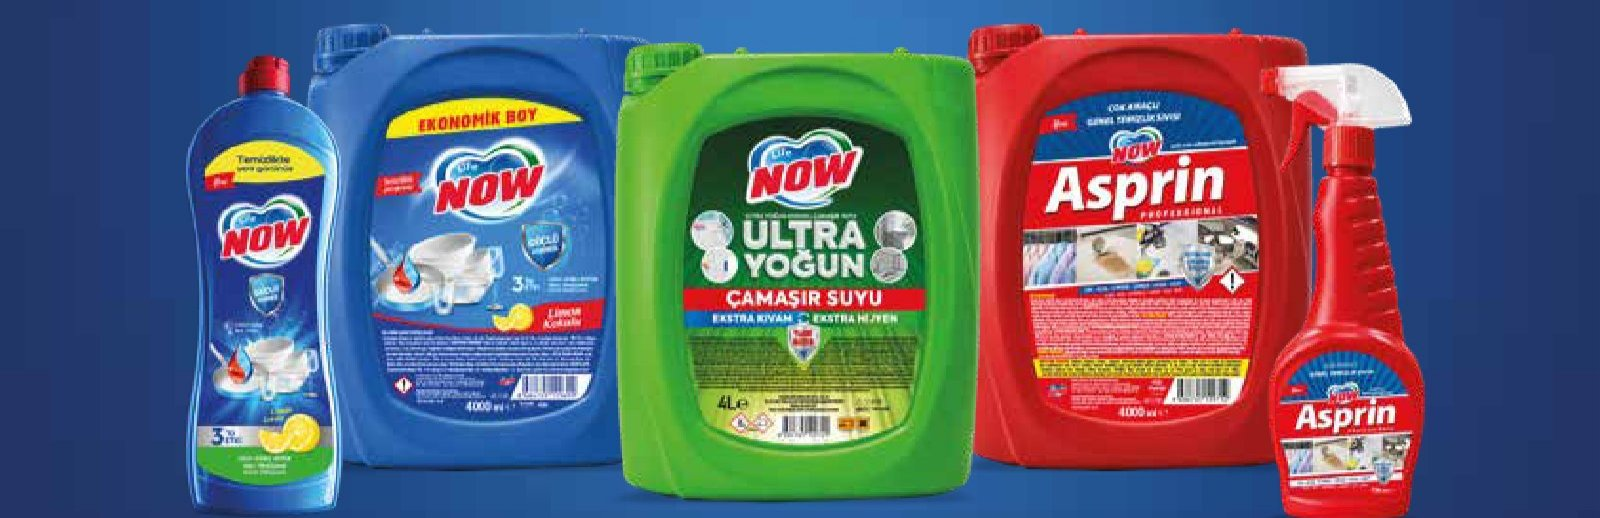
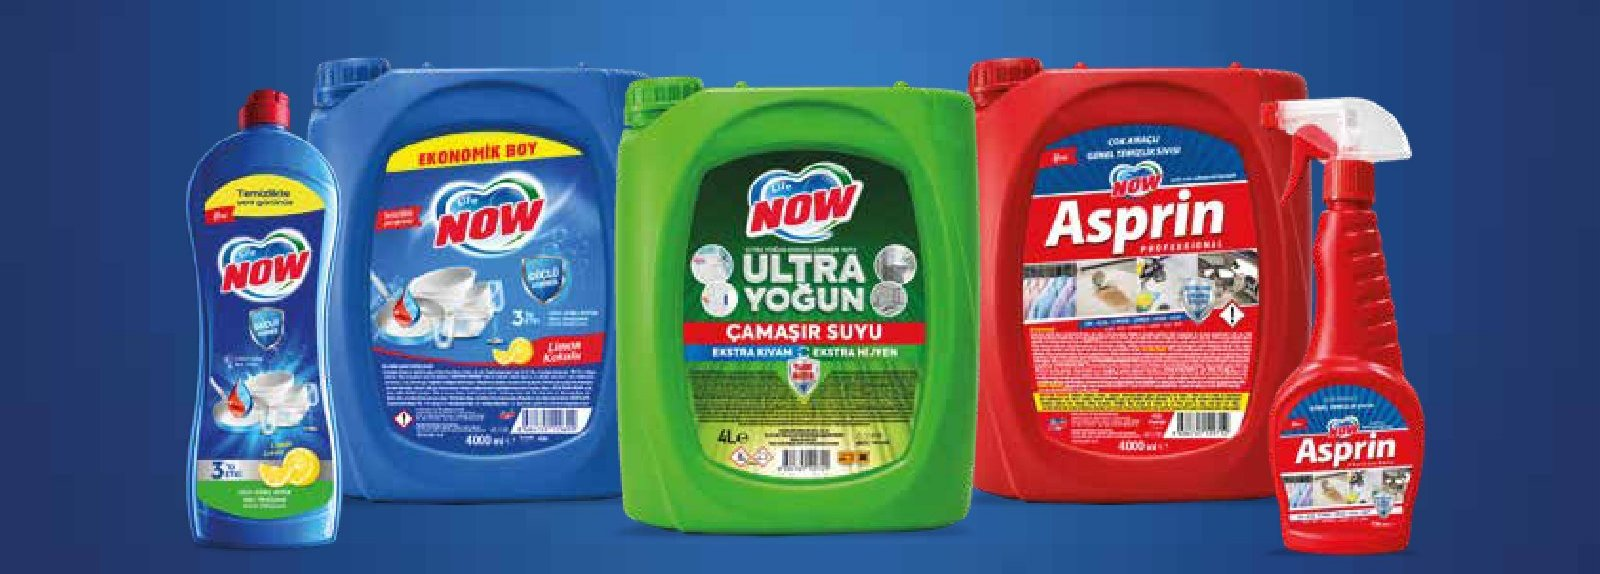
Gorsel kirpmalari duzeltildi: urun ustleri tam gorunur, yuksek cozunurluk

diff --git a/app/[lang]/page.tsx b/app/[lang]/page.tsx
@@ -29,7 +29,7 @@ export default async function Home({ params }: PageProps<"/[lang]">) {
             </div>
           </div>
           <div className="relative mx-auto aspect-[5/6] w-full max-w-md overflow-hidden rounded-[2.5rem] shadow-2xl">
-            <Image src="/img/hero.jpg" alt="Life Now" fill priority sizes="(min-width:768px) 450px, 90vw" className="object-cover" />
+            <Image src="/img/hero.jpg" alt="Life Now" fill priority sizes="(min-width:768px) 450px, 90vw" className="object-cover object-top" />
           </div>
         </div>
       </section>
@@ -56,8 +56,8 @@ export default async function Home({ params }: PageProps<"/[lang]">) {
       {/* Lineup */}
       <section className="bg-navy-deep text-white">
         <div className="container-x py-20">
-          <div className="relative aspect-[3/1.35] overflow-hidden rounded-[2rem] md:aspect-[3/1]">
-            <Image src="/img/row1.jpg" alt="Life Now" fill sizes="1200px" className="object-cover" />
+          <div className="relative mx-auto aspect-[1600/732] overflow-hidden rounded-[2rem]">
+            <Image src="/img/row1.jpg" alt="Life Now" fill sizes="1200px" className="object-contain" />
           </div>
         </div>
       </section>
@@ -76,8 +76,8 @@ export default async function Home({ params }: PageProps<"/[lang]">) {
         <div className="mt-12 grid gap-6 sm:grid-cols-2 lg:grid-cols-3">
           {catalog.slice(0, 6).map((c) => (
             <Link key={c.id} href={`/${lang}/urunler#${c.id}`} className="group overflow-hidden rounded-3xl border border-black/5 bg-white shadow-sm transition hover:-translate-y-1 hover:shadow-xl">
-              <div className="relative aspect-[4/3] bg-paper">
-                <Image src={`/img/${c.image}.jpg`} alt={d.cats[c.id].name} fill sizes="400px" className="object-contain p-3 mix-blend-multiply" />
+              <div className="relative aspect-[16/10] bg-paper">
+                <Image src={`/img/${c.image}.jpg`} alt={d.cats[c.id].name} fill sizes="400px" className="object-contain p-4 mix-blend-multiply" />
               </div>
               <div className="p-6">
                 <h3 className="text-lg font-semibold text-navy">{d.cats[c.id].name}</h3>

diff --git a/app/[lang]/urunler/page.tsx b/app/[lang]/urunler/page.tsx
@@ -26,7 +26,7 @@ export default async function Products({ params }: PageProps<"/[lang]/urunler">)
               i % 2 ? "md:[&>div:first-child]:order-2" : ""
             }`}
           >
-            <div className="relative aspect-[4/3] bg-paper">
+            <div className="relative aspect-[16/10] bg-paper">
               <Image src={`/img/${c.image}.jpg`} alt={d.cats[c.id].name} fill sizes="(min-width:768px) 600px, 100vw" className="object-contain p-4 mix-blend-multiply" />
             </div>
             <div className="p-8 md:p-10">
